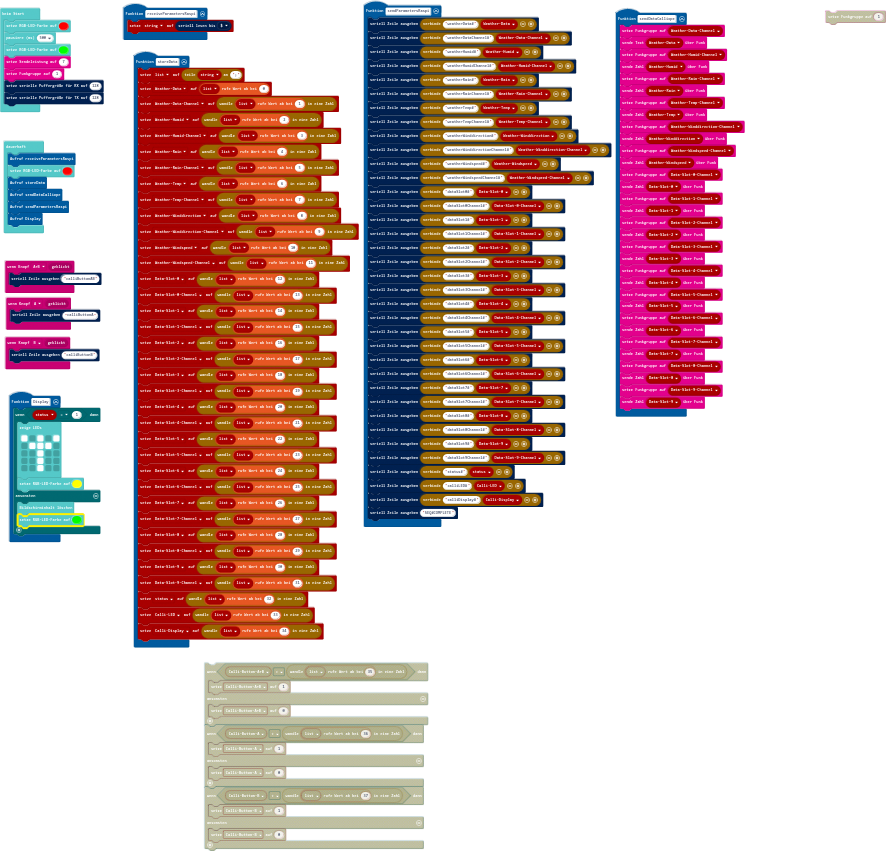
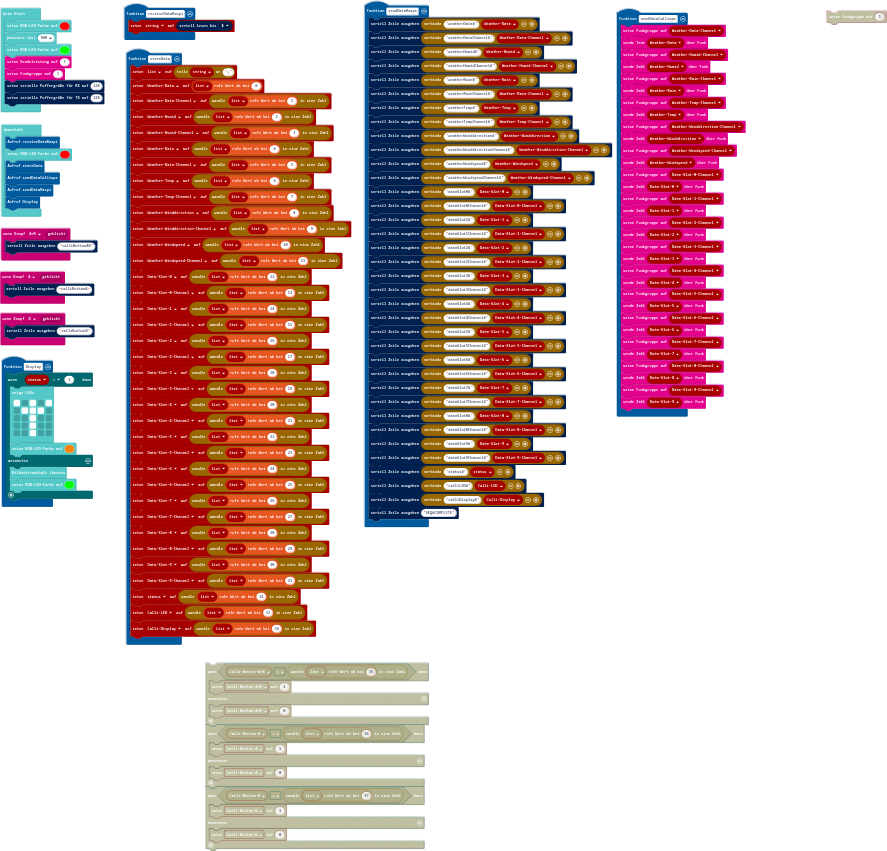
added function "display"

diff --git a/main.ts b/main.ts
@@ -1,7 +1,68 @@
 enum RadioMessage {
     message1 = 49434
 }
-function sendParametersRaspi () {
+function sendDataCalliope () {
+    radio.setGroup(WeatherDataChannel)
+    radio.sendString("" + (WeatherData))
+    radio.setGroup(WeatherHumidChannel)
+    radio.sendNumber(WeatherHumid)
+    radio.setGroup(WeatherRainChannel)
+    radio.sendNumber(WeatherRain)
+    radio.setGroup(WeatherTempChannel)
+    radio.sendNumber(WeatherTemp)
+    radio.setGroup(WeatherWinddirectionChannel)
+    radio.sendNumber(WeatherWinddirection)
+    radio.setGroup(WeatherWindspeedChannel)
+    radio.sendNumber(WeatherWindspeed)
+    radio.setGroup(DataSlot0Channel)
+    radio.sendNumber(DataSlot0)
+    radio.setGroup(DataSlot1Channel)
+    radio.sendNumber(DataSlot1)
+    radio.setGroup(DataSlot2Channel)
+    radio.sendNumber(DataSlot2)
+    radio.setGroup(DataSlot3Channel)
+    radio.sendNumber(DataSlot3)
+    radio.setGroup(DataSlot4Channel)
+    radio.sendNumber(DataSlot4)
+    radio.setGroup(DataSlot5Channel)
+    radio.sendNumber(DataSlot5)
+    radio.setGroup(DataSlot6Channel)
+    radio.sendNumber(DataSlot6)
+    radio.setGroup(DataSlot7Channel)
+    radio.sendNumber(DataSlot7)
+    radio.setGroup(DataSlot8Channel)
+    radio.sendNumber(DataSlot8)
+    radio.setGroup(DataSlot9Channel)
+    radio.sendNumber(DataSlot9)
+}
+input.onButtonEvent(Button.A, input.buttonEventClick(), function () {
+    serial.writeLine("calliButtonA")
+})
+input.onButtonEvent(Button.AB, input.buttonEventClick(), function () {
+    serial.writeLine("calliButtonAB")
+})
+input.onButtonEvent(Button.B, input.buttonEventClick(), function () {
+    serial.writeLine("calliButtonB")
+})
+function Display () {
+    if (status == 1) {
+        basic.showLeds(`
+            # . # . #
+            . # # # .
+            . . # . .
+            . . # . .
+            . . # . .
+            `)
+        basic.setLedColor(0xff8000)
+    } else {
+        basic.clearScreen()
+        basic.setLedColor(0x00ff00)
+    }
+}
+function receiveDataRaspi () {
+    string = serial.readUntil(serial.delimiters(Delimiters.Dollar))
+}
+function sendDataRaspi () {
     serial.writeLine("weatherData#" + WeatherData)
     serial.writeLine("weatherDataChannel#" + WeatherDataChannel)
     serial.writeLine("weatherHumid#" + WeatherHumid)
@@ -38,67 +99,6 @@ function sendParametersRaspi () {
     serial.writeLine("calliLED#" + CalliLED)
     serial.writeLine("calliDisplay#" + CalliDisplay)
     serial.writeLine("SEQ#COMPLETE")
-}
-function sendDataCalliope () {
-    radio.setGroup(WeatherDataChannel)
-    radio.sendString("" + (WeatherData))
-    radio.setGroup(WeatherHumidChannel)
-    radio.sendNumber(WeatherHumid)
-    radio.setGroup(WeatherRainChannel)
-    radio.sendNumber(WeatherRain)
-    radio.setGroup(WeatherTempChannel)
-    radio.sendNumber(WeatherTemp)
-    radio.setGroup(WeatherWinddirectionChannel)
-    radio.sendNumber(WeatherWinddirection)
-    radio.setGroup(WeatherWindspeedChannel)
-    radio.sendNumber(WeatherWindspeed)
-    radio.setGroup(DataSlot0Channel)
-    radio.sendNumber(DataSlot0)
-    radio.setGroup(DataSlot1Channel)
-    radio.sendNumber(DataSlot1)
-    radio.setGroup(DataSlot2Channel)
-    radio.sendNumber(DataSlot2)
-    radio.setGroup(DataSlot3Channel)
-    radio.sendNumber(DataSlot3)
-    radio.setGroup(DataSlot4Channel)
-    radio.sendNumber(DataSlot4)
-    radio.setGroup(DataSlot5Channel)
-    radio.sendNumber(DataSlot5)
-    radio.setGroup(DataSlot6Channel)
-    radio.sendNumber(DataSlot6)
-    radio.setGroup(DataSlot7Channel)
-    radio.sendNumber(DataSlot7)
-    radio.setGroup(DataSlot8Channel)
-    radio.sendNumber(DataSlot8)
-    radio.setGroup(DataSlot9Channel)
-    radio.sendNumber(DataSlot9)
-}
-function receiveParametersRaspi () {
-    string = serial.readUntil(serial.delimiters(Delimiters.Dollar))
-}
-input.onButtonEvent(Button.A, input.buttonEventClick(), function () {
-    serial.writeLine("calliButtonA")
-})
-input.onButtonEvent(Button.AB, input.buttonEventClick(), function () {
-    serial.writeLine("calliButtonAB")
-})
-input.onButtonEvent(Button.B, input.buttonEventClick(), function () {
-    serial.writeLine("calliButtonB")
-})
-function Display () {
-    if (status == 1) {
-        basic.showLeds(`
-            # . # . #
-            . # # # .
-            . . # . .
-            . . # . .
-            . . # . .
-            `)
-        basic.setLedColor(0xffff00)
-    } else {
-        basic.clearScreen()
-        basic.setLedColor(0x00ff00)
-    }
 }
 function storeData () {
     list = string.split(";")
@@ -139,42 +139,42 @@ function storeData () {
     CalliDisplay = parseFloat(list[34])
 }
 let list: string[] = []
-let string = ""
 let CalliDisplay = 0
 let CalliLED = 0
+let string = ""
 let status = 0
-let DataSlot9Channel = 0
 let DataSlot9 = 0
-let DataSlot8Channel = 0
+let DataSlot9Channel = 0
 let DataSlot8 = 0
-let DataSlot7Channel = 0
+let DataSlot8Channel = 0
 let DataSlot7 = 0
-let DataSlot6Channel = 0
+let DataSlot7Channel = 0
 let DataSlot6 = 0
-let DataSlot5Channel = 0
+let DataSlot6Channel = 0
 let DataSlot5 = 0
-let DataSlot4Channel = 0
+let DataSlot5Channel = 0
 let DataSlot4 = 0
-let DataSlot3Channel = 0
+let DataSlot4Channel = 0
 let DataSlot3 = 0
-let DataSlot2Channel = 0
+let DataSlot3Channel = 0
 let DataSlot2 = 0
-let DataSlot1Channel = 0
+let DataSlot2Channel = 0
 let DataSlot1 = 0
-let DataSlot0Channel = 0
+let DataSlot1Channel = 0
 let DataSlot0 = 0
-let WeatherWindspeedChannel = 0
+let DataSlot0Channel = 0
 let WeatherWindspeed = 0
-let WeatherWinddirectionChannel = 0
+let WeatherWindspeedChannel = 0
 let WeatherWinddirection = 0
-let WeatherTempChannel = 0
+let WeatherWinddirectionChannel = 0
 let WeatherTemp = 0
-let WeatherRainChannel = 0
+let WeatherTempChannel = 0
 let WeatherRain = 0
-let WeatherHumidChannel = 0
+let WeatherRainChannel = 0
 let WeatherHumid = 0
-let WeatherDataChannel = 0
+let WeatherHumidChannel = 0
 let WeatherData = ""
+let WeatherDataChannel = 0
 basic.setLedColor(0xff0000)
 basic.pause(500)
 basic.setLedColor(0x00ff00)
@@ -183,10 +183,10 @@ radio.setGroup(1)
 serial.setRxBufferSize(128)
 serial.setTxBufferSize(128)
 basic.forever(function () {
-    receiveParametersRaspi()
+    receiveDataRaspi()
     basic.setLedColor(0xff0000)
     storeData()
     sendDataCalliope()
-    sendParametersRaspi()
+    sendDataRaspi()
     Display()
 })
